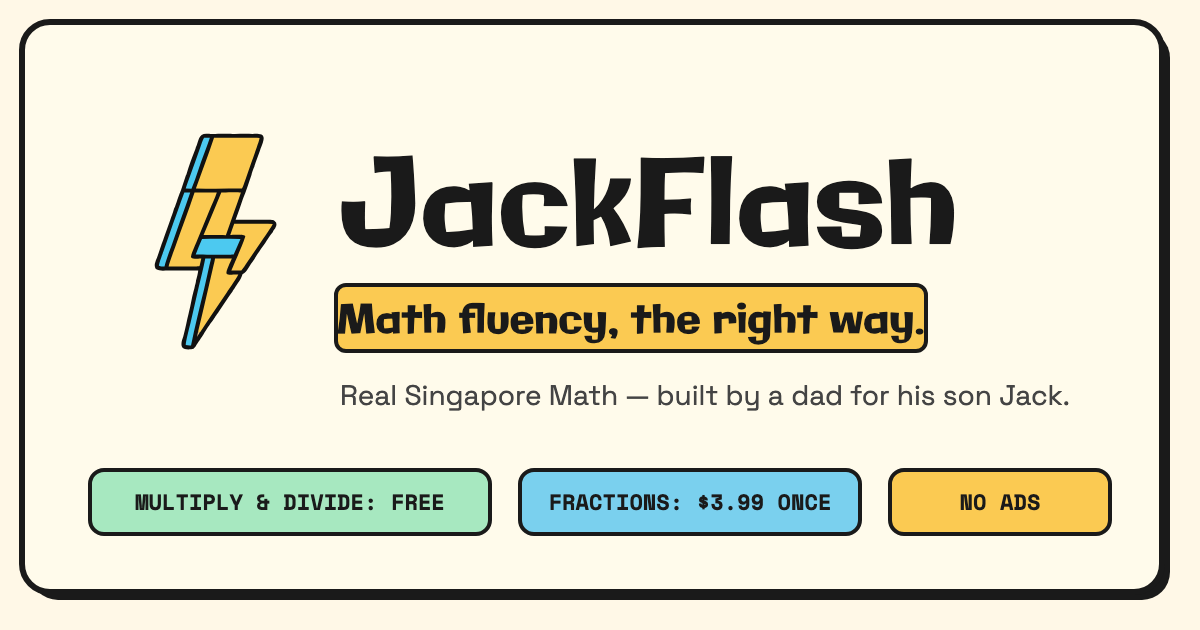
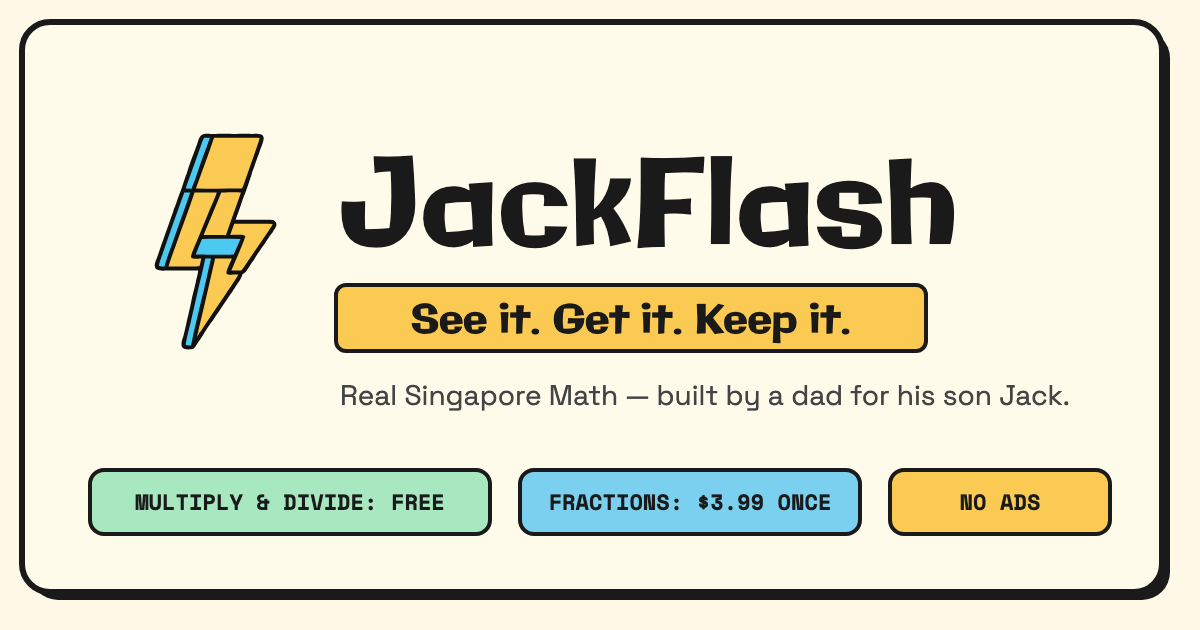
Tagline: "See it. Get it. Keep it."
Replaces "Math fluency, the right way." "Fluency" reads as speed to most
parents and "the right way" implies a wrong one; the new line is the app's
method: the picture, understanding, from memory. Splash, onboarding,
landing page (each beat kept on one line at phone width), design handoff,
OG card (re-rendered with the brand fonts), marketing plan; the decision
is recorded in docs/voice-and-messaging.md.

Changed region(s): [[0.2775, 0.4825, 0.7708, 0.5429]]

diff --git a/public/landing.html b/public/landing.html
@@ -3,12 +3,12 @@
 <head>
 <meta charset="UTF-8" />
 <meta name="viewport" content="width=device-width, initial-scale=1.0" />
-<title>JackFlash — Math fluency, the right way.</title>
+<title>JackFlash — See it. Get it. Keep it.</title>
 <meta name="description" content="Real Singapore Math practice — the CPA method, bar models, and mastery that means from memory and unaided. Built by a dad for his kid Jack." />
 <meta name="theme-color" content="#FFD43B" />
 <link rel="icon" href="./icon.svg" />
 
-<meta property="og:title" content="JackFlash — Math fluency, the right way." />
+<meta property="og:title" content="JackFlash — See it. Get it. Keep it." />
 <meta property="og:description" content="Real Singapore Math practice — the CPA method, bar models, and mastery that means from memory and unaided. Built by a dad for his kid Jack." />
 <meta property="og:image" content="./landing/frames/frame1_profiles.png" />
 <meta property="og:type" content="website" />
@@ -64,7 +64,7 @@
     <h1 class="hero-lockup-wrap">
       <jf-lockup></jf-lockup>
     </h1>
-    <p class="tagline">Math fluency, <mark class="mark mark-yellow">the right way.</mark></p>
+    <p class="tagline"><span style="white-space:nowrap">See it.</span> <span style="white-space:nowrap">Get it.</span> <mark class="mark mark-yellow" style="white-space:nowrap">Keep it.</mark></p>
     <p class="hero-sub">Real Singapore Math practice — the CPA method, bar models, and mastery that means from memory <em>and</em>&nbsp;unaided. Built by a dad for his kid&nbsp;Jack.</p>
     <div class="cta-row">
       <div class="store-badges">

diff --git a/assets/landing-design-handoff.html b/assets/landing-design-handoff.html
@@ -7,7 +7,7 @@
 <title>JackFlash — Real Singapore Math Practice</title>
 <meta name="description" content="Real Singapore Math practice for kids: CPA scaffolds that fade, bar models, and mastery that means from memory and unaided. One-time $3.99, no subscription. No ads, no tracking, no accounts — works fully offline.">
 <meta property="og:type" content="website">
-<meta property="og:title" content="JackFlash — Math fluency, the right way.">
+<meta property="og:title" content="JackFlash — See it. Get it. Keep it.">
 <meta property="og:description" content="Real Singapore Math practice: concrete → pictorial → abstract, scaffolds that fade, mastery that means from memory and unaided. One-time $3.99. No ads, no tracking, no accounts.">
 <meta property="og:image" content="./og.png">
 <style>
@@ -628,7 +628,7 @@ footer .copy{font-size:13px;color:var(--text2)}
     </span>
   </div>
 
-  <p class="tagline">Math fluency, <mark>the right way.</mark></p>
+  <p class="tagline"><span style="white-space:nowrap">See it.</span> <span style="white-space:nowrap">Get it.</span> <mark style="white-space:nowrap">Keep it.</mark></p>
   <p class="hero-sub">Real Singapore Math practice — the CPA method, bar models, and mastery
      that means from memory <em>and</em> unaided. Built by a dad for his son Jack.</p>
 

diff --git a/src/SplashScreen.jsx b/src/SplashScreen.jsx
@@ -81,7 +81,7 @@ export default function SplashScreen({ onDone }) {
       }}
     >
       <div ref={markRef} style={{ transform: `scale(${scale})`, transformOrigin: "center" }}>
-        <AnimatedWordmark size={BASE_SIZE} accentColor="#4CC9F0" stacked subtitle="Math fluency, the right way." />
+        <AnimatedWordmark size={BASE_SIZE} accentColor="#4CC9F0" stacked subtitle="See it. Get it. Keep it." />
       </div>
 
       <div

diff --git a/src/Onboarding.jsx b/src/Onboarding.jsx
@@ -97,7 +97,7 @@ function WelcomeScreen({ onNext }) {
           margin: "0 0 32px 0",
           lineHeight: 1.6,
         }}>
-          Math fluency, the right way.
+          See it. Get it. Keep it.
         </p>
 
         <div style={{

diff --git a/docs/voice-and-messaging.md b/docs/voice-and-messaging.md
@@ -40,9 +40,11 @@ The time window is an implementation detail for telling memory from counting. Me
 
 ## Open questions (Adam to decide)
 
-- The tagline "Math fluency, the right way." Fluency in the education sense means accurate, flexible and efficient, but many parents hear "fast".
+- None right now.
 
 ## Decided
+
+- **2026-10-12 — Tagline: "See it. Get it. Keep it."** replaces "Math fluency, the right way." "Fluency" read as speed to most parents (it is what timed fact tests claim to measure), and "the right way" implied a wrong way, a verdict the paper argues against. The new line is the app's method in three beats: the picture (see), understanding (get), from memory (keep). The name "JackFlash" and its bolt already suggest speed, so the tagline says what the app values instead. It is used on the splash screen, in onboarding, on the landing page and on the social card. "Math you do, not math you are" (from *Before the Jet Pack*) is kept as a parent-facing headline for the landing page or marketing, where there is room to explain it.
 
 - **2026-10-06 — Century Club → Habit Builder.** "Century Club" (100 problems in one session) rewarded volume and pulled against "five minutes a day". It is replaced by **Habit Builder 🌱 — "Practiced on 10 different days"**: a total, not a streak, so a missed day never takes it away. Profiles track `dailyStreak.daysPracticed` (back-filled from streak and recent sessions for existing profiles). The same change wired the day-based achievements to actually fire: Week Warrior and Month Master had never been able to unlock because `checkAfterSession` was never called.
 - **2026-10-06 — Streak milestones toned down.** The repeatable in-practice popups went from four hype milestones ("Getting Warm!" at 3, "On Fire!" at 5, "Unstoppable!" at 10, "LEGENDARY!" at 25) to two calm nods: **"Nice and steady" 👍 at 10** and **"Great focus" 🎯 at 25** ("N right in a row."), with no fire, lightning or crown. A nod is skipped when the matching one-time achievement unlocks on the same answer. The one-time achievements keep their ids but are renamed: getting-warm → **Warming Up** 🌤, on-fire → **Steady** 👍, unstoppable → **Deep Focus** 🎯 ("3/10/25 right in a row"). Testing this exposed a popup bug: a second achievement queued behind another was never shown (the 3s timer restarted on every re-render and the popup stayed hidden after the first closed). `AchievementPopup` now times each achievement once and shows each one. The nods use their own header, **"Good practice"**, so "Achievement unlocked!" is only said about real achievements.

diff --git a/docs/marketing-launch-plan.md b/docs/marketing-launch-plan.md
@@ -63,7 +63,7 @@ inlined, the wordmark animation ported as standalone SVG+CSS (it already is SVG+
 Serve as the **App Store "Marketing URL"** and the link used in every community post.
 
 Sections, top to bottom:
-1. **Hero** — animated wordmark lockup + "Math fluency, the right way." + App Store badge + *Try it free in your browser* (links to the live web app).
+1. **Hero** — animated wordmark lockup + "See it. Get it. Keep it." + App Store badge + *Try it free in your browser* (links to the live web app).
 2. **Three pillars** — the §1 trio, one tight paragraph each.
 3. **How it works** — the CPA story with the dots-fade visual (reuse onboarding's Concrete/Pictorial/Abstract framing); one line on mastery: "Mastered means from memory *and* unaided."
 4. **Screenshots** — 3–4 framed shots (same set as the store).
